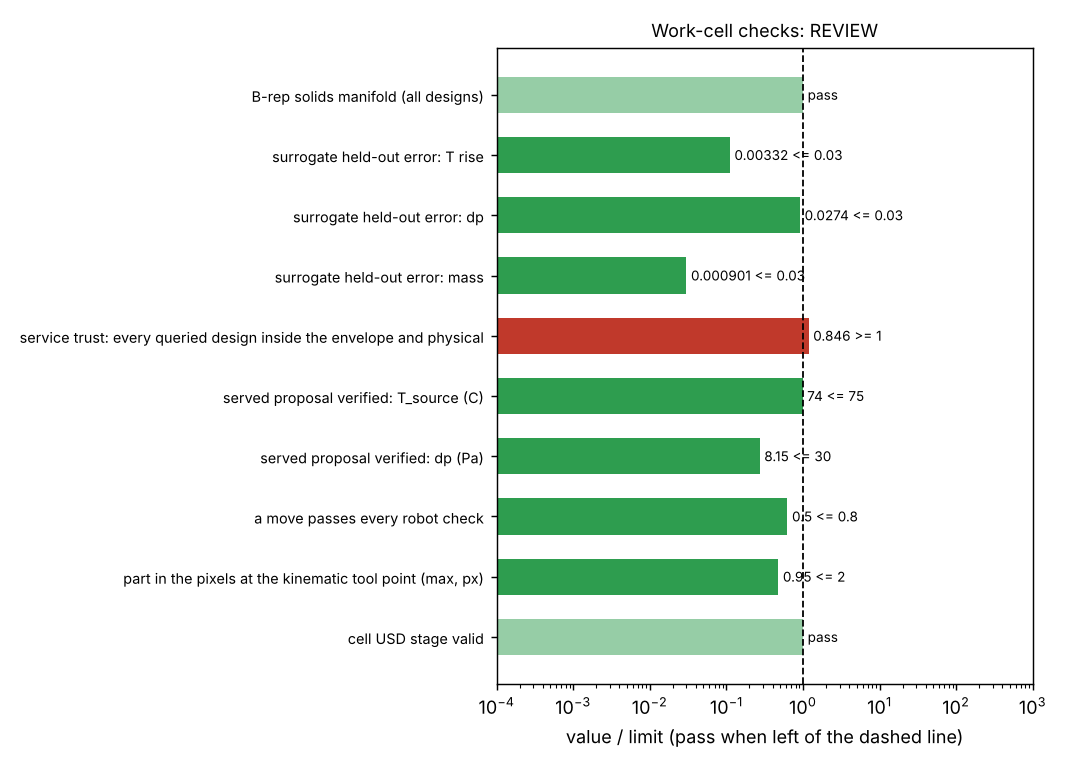
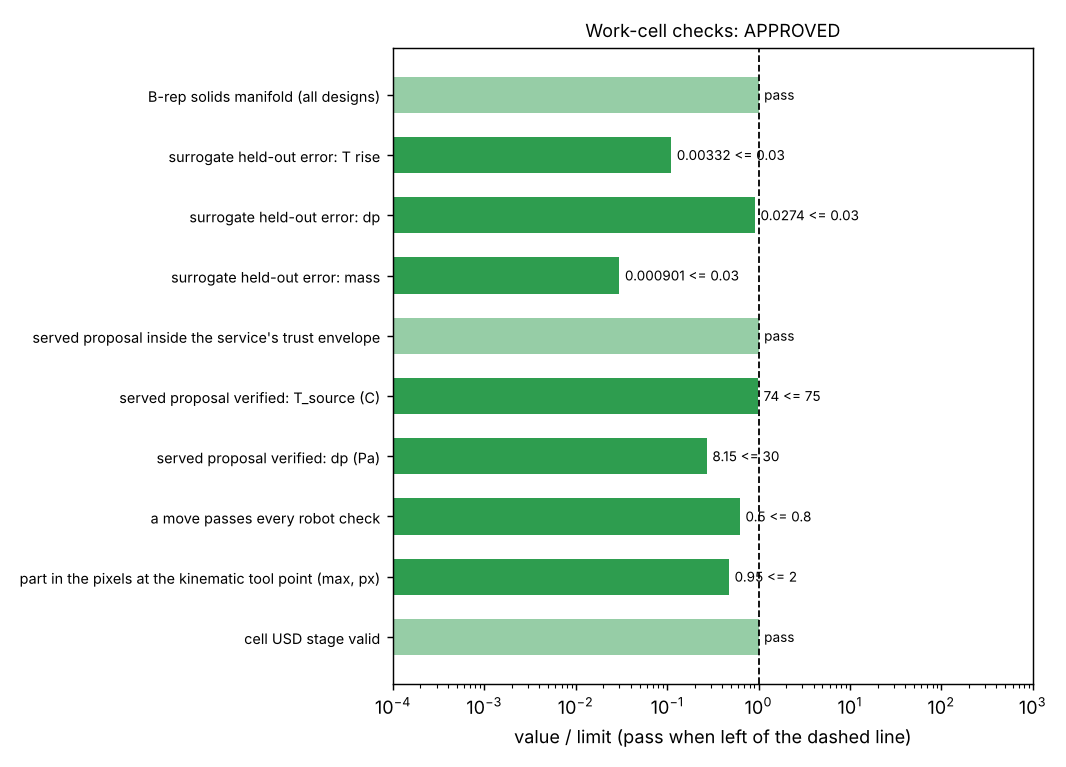
Example 18: recorded run and README
Claude-Session: https://claude.ai/code/session_0196ouixTBTxQjf5HW5ABt6E

diff --git a/examples/nvidia/18_all_stacks_heatsink_cell/run.py b/examples/nvidia/18_all_stacks_heatsink_cell/run.py
@@ -13,7 +13,7 @@ in one OpenUSD scene, and PINNeAPPle checks each hand-off.
    is where the kinematics put it.
 6. O (Omniverse / OpenUSD): the move with the exact part mesh, the camera and every decision in one validated stage.
 
-    python examples/nvidia/18_all_stacks_heatsink_cell/run.py      # ~15 min on 4 CPU cores
+    python examples/nvidia/18_all_stacks_heatsink_cell/run.py      # ~33 min on 4 CPU cores (31 min of it training)
 """
 import argparse
 import json

diff --git a/examples/nvidia/18_all_stacks_heatsink_cell/README.md b/examples/nvidia/18_all_stacks_heatsink_cell/README.md
@@ -1,0 +1,54 @@
+# 18 Heat-sink work cell with every stack: PINNeAPPle + B + P + N + I + C + O
+
+**What.** One small engineering task through all six stacks, with PINNeAPPle checking every hand-off:
+
+1. **B, NVIDIA USD BRep:** exact solids of 110 sampled plate-fin heat sinks (fin count, height, thickness, root
+   fillets) and their exact mass.
+2. **P, PhysicsNeMo:** `FullyConnected` surrogate `(n, H, t) -> (T rise, dp, mass)`, trained on the B-rep masses and
+   PINNeAPPle's closed-form thermal rating (60 W, 3 m/s air).
+3. **N, PINNeAPPle Model Services:** the surrogate behind the NIM-shaped `/v1/infer`, with a trust report per design.
+   The client asks it about 9 765 designs and takes the lightest one meeting T <= 75 C and dp <= 30 Pa among those
+   the service trusts. PINNeAPPle verifies that proposal with the exact solid and the closed form.
+4. **I, PINNeAPPle Robot Sim on NVIDIA Newton:** the two-link arm carries the verified part plus a 2 kg gripper.
+   Seven move durations are tried; each must pass replay convergence, tracking, energy balance, motor limits and
+   link stress.
+5. **C, PINNeAPPle World Model:** synthetic side-camera frames of the chosen move (4 camera variations), with the
+   check that the part in the pixels is where the kinematics put it.
+6. **O, OpenUSD:** the move with the exact part mesh, the camera and the decisions in one validated stage
+   (`results/cell.usda`, regenerated by each run, not committed).
+
+| Step | Who | Ran here |
+|---|---|---|
+| exact solids, mass (90 training + 20 test designs) | NVIDIA USD BRep 1.0.1 | yes |
+| closed-form rating, verification | PINNeAPPle | yes |
+| FullyConnected 3 x 64, 12 000 Adam steps | PhysicsNeMo 2.2.2 (CPU) | yes |
+| `/v1/infer` over local HTTP, trust report | PINNeAPPle Model Services | yes |
+| arm moves with the part | Robot Sim (Newton 1.7) | yes |
+| synthetic camera frames, pixel vs kinematics check | PINNeAPPle World Model | yes |
+| cell stage, validation | OpenUSD (`usd-core` 26.11) | yes |
+| RTX render (`results/kit_render.py`), Isaac Sim, NVIDIA NIM, Cosmos | Omniverse / NVIDIA | no (GPU or `NVIDIA_API_KEY`) |
+
+```bash
+pip install nvidia-physicsnemo usd-core newton newton-usd-schemas
+export PINNEAPPLE_BREP_PYTHON=/opt/brep/bin/python      # CPython 3.12 venv with usd-brep
+python examples/nvidia/18_all_stacks_heatsink_cell/run.py    # ~33 min on 4 CPU cores, shared with other runs
+```
+
+## Results (this run: 4-core Xeon 2.1 GHz, no GPU)
+
+- Surrogate held-out error (relative RMS, 20 designs): T rise 0.33 %, dp 2.7 %, mass 0.09 %.
+- The service flagged 1 500 of the 9 765 queried designs as outside its training box. They were not considered.
+  One query took 19 ms of inference and 102 ms of trust checks.
+- First proposal accepted: **13 fins, 17 mm high, 1.1 mm thick**.
+  - Served 73.76 C; verified **73.99 C**, 8.1 Pa, **200.6 g** (exact B-rep mass).
+- Arm with 2.20 kg payload:
+  - 0.8, 0.6 and 0.5 s moves pass. The 0.5 s move peaks the shoulder at 112.5 of 120 N m.
+  - At 0.4 s and below the shoulder saturates at 120 N m, so tracking and replay fail.
+  - **Shortest passing move: 0.5 s.**
+- The part in the camera frames is at the kinematic tool point within **0.95 px** (limit 2 px), over 4 camera
+  variations.
+- The cell USD stage validates: 4 meshes, 144 time samples.
+- **Decision: APPROVED.**
+
+Figures in `results/`: `architecture.png`, `cell.png` (served designs and the verified one, robot peak torques vs
+move time, a camera frame), `usd_cell.png` (the stage read back mid-move), `checks.png`.
